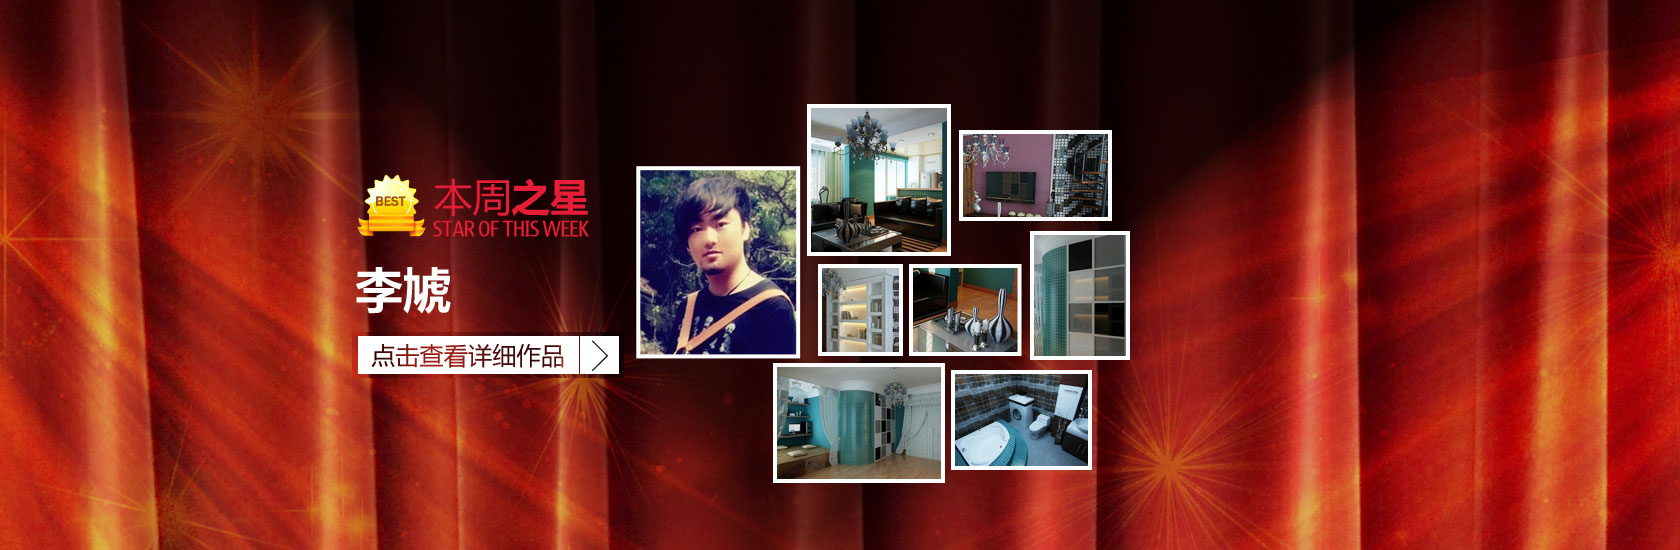
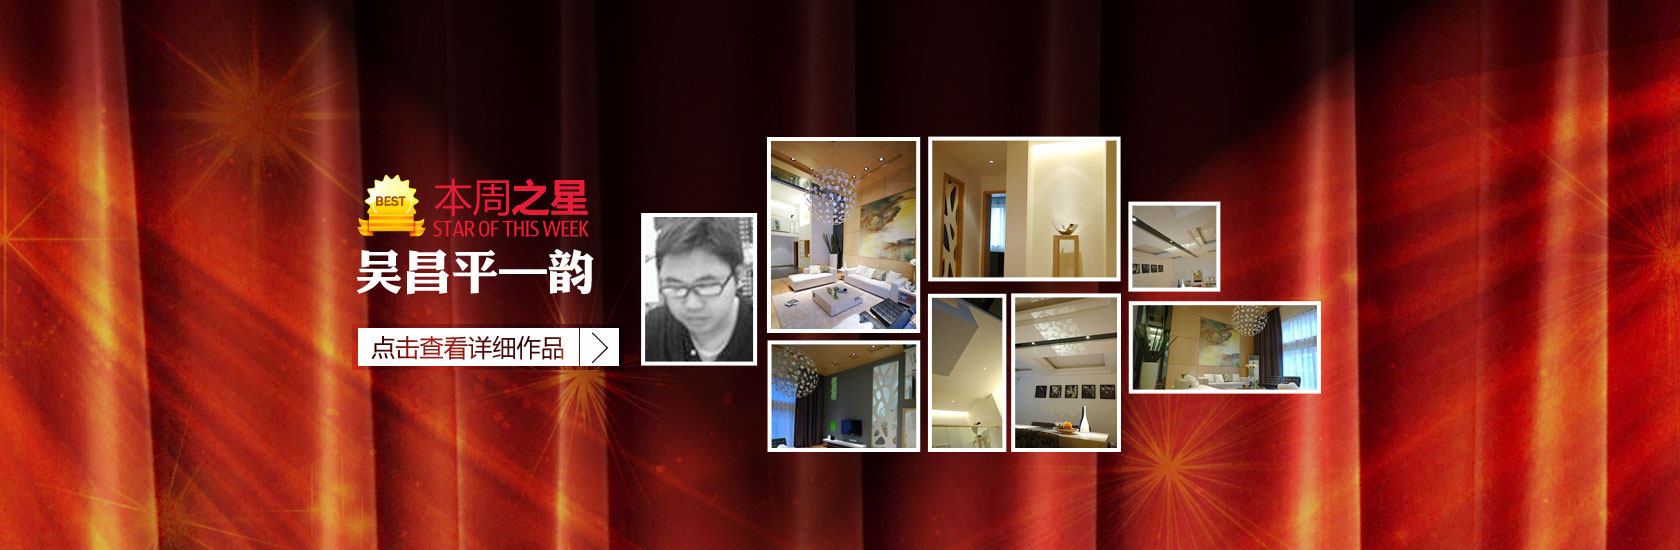
ICOLOR-737,831:经销商平台报表功能制作;更换首页每周之星KV

Changed region(s): [[0.1857, 0.1855, 0.8048, 0.8964]]

diff --git a/app/controllers/sellers/seller_reports_controller.rb b/app/controllers/sellers/seller_reports_controller.rb
@@ -3,5 +3,97 @@ class Sellers::SellerReportsController < ApplicationController
 	layout "sellers"
 
 	def index
+		redirect_to(new_seller_user_session_path) unless current_seller_user
+	end
+
+	def export
+		Spreadsheet.client_encoding = 'UTF-8'
+
+		file_name = params[:file_name]
+		statistical_time = Date.parse params[:statistical_time]
+
+		book = Spreadsheet::Workbook.new
+		title = "#{file_name}(#{Area.find(current_seller_user.area_id).name}地区)"
+
+    sheet1 = book.create_worksheet :name => 'iColor经销商报表'
+    sheet1[0,0] = title
+    sheet1.row(1).concat ['公司名称','开户日期','公司电话','公司邮箱','本月销售额',
+    											'畅销产品Top1','畅销产品Top2','畅销产品Top3','累计上线数',
+    											'本月作品数','累计作品数','本月被投票数','累计被投票数','本月被评论数',
+    											'累计被评论数','是否置顶','入选每周之星','入选月度之星']
+
+    format = Spreadsheet::Format.new :color => "black", :pattern_fg_color => "white", :size => 12
+		row_number = 2
+
+    areas = Area.find(current_seller_user.area_id).self_and_descendants
+    companies = User.where("area_id in (?) and role_id = ?", areas, 2).order("is_top desc","top_order asc")
+
+    companies.each_with_index do |user,index|
+
+			is_weekly_start = ""
+			is_month_start  = ""
+			current_month   = user.seller_datas.where(created_at: statistical_time..statistical_time.months_since(1), apply_for_tools: false).first 
+			current_designs = user.designs.where("DATE_FORMAT(created_at, '%Y%m') = ?" , statistical_time.strftime("%Y%m"))
+
+			WeeklyStar.find_each do |w|
+				if w.author_url.match %r(user.id)
+					if w.star_type_id.eql? 1
+						is_weekly_start = "是"
+					else
+						is_month_start = "是"
+					end
+				end
+			end
+
+			sheet1.update_row row_number,
+												user.display_name,
+												user.created_at.strftime("%Y-%m-%d"), 
+												user.try(:phone),
+												user.try(:email),
+												current_month.try(:sales),
+												current_month.try(:product_top1),
+												current_month.try(:product_top2),
+												current_month.try(:product_top3),
+
+												user.try(:sign_in_count),
+												current_designs.count,
+												user.designs.count,
+
+												current_designs.sum(:votes_count),
+												user.designs.sum(:votes_count),
+
+												current_designs.map {|d| d.comments.count }.sum,
+												user.designs.map {|d| d.comments.count }.sum,
+
+												user.try(:top_order),
+												is_weekly_start,
+												is_month_start
+
+			sheet1.row(row_number).default_format = format
+			sheet1.row(row_number).height = 20									
+
+			row_number += 1
+		end
+		sheet1[row_number+1,0] = "报表时间:" + statistical_time.strftime("%Y/%m/%d").to_s + "-" + statistical_time.months_since(1).strftime("%Y/%m/%d").to_s
+
+		title_format = Spreadsheet::Format.new :pattern_bg_color => "red", :color => "white", :pattern_fg_color => "red", :pattern => 1, :size => 20, :weight => :bold
+		sheet1.row(0).default_format = title_format
+
+		bold = Spreadsheet::Format.new :pattern_bg_color => "gray", :color => "black", :pattern_fg_color => "gray", :pattern => 1, :size => 12
+    sheet1.row(1).default_format = bold  
+
+    (0..17).each do |number|
+    	sheet1.column(number).width = 28 
+    end	
+
+    file = "#{Rails.root}/lib/data/seller_user_reports/#{title}.xls"    
+
+    unless File.exists? file
+    	SellerReport.create!(file_name: title, statistical_time: statistical_time, created_time: Time.now)
+   	end 	
+
+   	book.write file
+
+    send_data open(file).read, :filename => "#{title}.xls"
 	end
 end

diff --git a/config/initializers/magic_content.rb b/config/initializers/magic_content.rb
@@ -7,7 +7,8 @@ MagicContent.extra_settings = [
     {:tag => 'text_field_tag', :key => 'promote_designers', :label => '片区快查推荐设计师或家装公司(KV)'},
    # {:tag => 'text_field_tag', :key => 'recommend_designers', :label => '片区快查推荐设计师或家装公司(列表)'},
     {:tag => 'text_field_tag', :key => 'weibo_keywords', :label => '微博关键字'},
-    {:tag => 'text_field_tag', :key => 'recommend_designs', :label => '推荐作品'}
+    {:tag => 'text_field_tag', :key => 'recommend_designs', :label => '推荐作品'},
+    {:tag => 'text_field_tag', :key => 'statistical_time', :label => "iColor经销商报表统计截至日期(单位:日)"}
 ]
 
 MagicContent.extra_menu_items = [

diff --git a/config/routes.rb b/config/routes.rb
@@ -25,6 +25,7 @@ Icolor::Application.routes.draw do
     match "/seller_user/set_top" => "sellers/seller_data#set_top"
     match "/seller_user/apply_for_tools" => "sellers/seller_tool#apply_for_tools"
     match "/seller_user/reports" => "sellers/seller_reports#index"
+    match "/seller_user/reports/export" => "sellers/seller_reports#export"
   end
 
   devise_scope :user do

diff --git a/db/migrate/20120724031716_create_seller_reports.rb b/db/migrate/20120724031716_create_seller_reports.rb
@@ -1,0 +1,11 @@
+class CreateSellerReports < ActiveRecord::Migration
+  def change
+    create_table :seller_reports do |t|
+      t.string :file_name
+      t.datetime :statistical_time
+      t.datetime :created_time
+      
+      t.timestamps
+    end
+  end
+end

diff --git a/app/models/seller_report.rb b/app/models/seller_report.rb
@@ -1,0 +1,3 @@
+class SellerReport < ActiveRecord::Base
+  attr_accessible :file_name, :statistical_time, :created_time
+end
